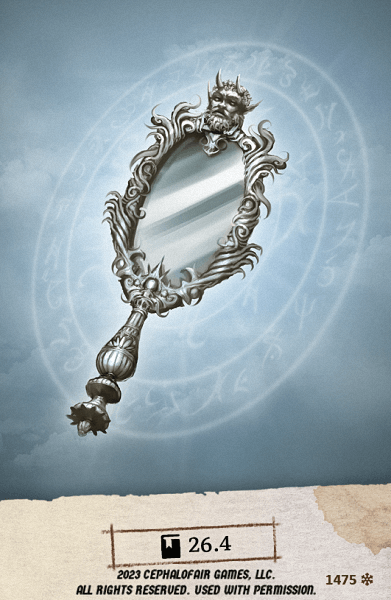
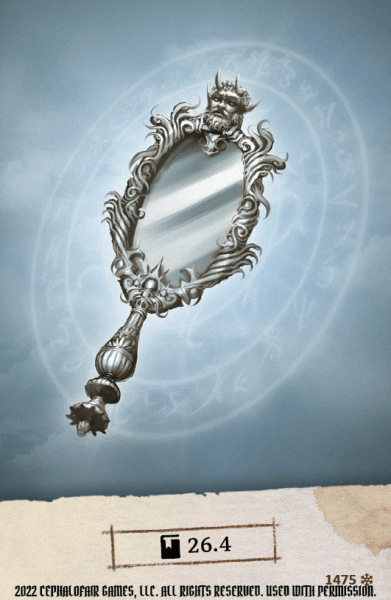
Implement New FH RS Assets with Copyright, Standardized Sizes & Asset Numbers

diff --git a/data/random-scenarios.js b/data/random-scenarios.js
@@ -224,134 +224,198 @@
     "assetno": "490"
   },
   {
-    "name": "random scenario back",
+    "name": "random scenario 26.4",
     "points": 28,
     "expansion": "frosthaven",
-    "image": "random-scenarios/frosthaven/fh-random-scenario-back.png",
-    "xws": "randomscenarioback"
+    "image": "random-scenarios/frosthaven/fh-random-scenario-26.4.png",
+    "xws": "randomscenario264",
+    "assetno": "1475"
   },
   {
-    "name": "random scenario 26.4",
+    "name": "1475",
     "points": 29,
     "expansion": "frosthaven",
     "image": "random-scenarios/frosthaven/fh-random-scenario-26.4.png",
-    "xws": "randomscenario264"
+    "xws": "randomscenario264",
+    "assetno": "1475"
   },
   {
     "name": "random scenario 81.1",
     "points": 30,
     "expansion": "frosthaven",
     "image": "random-scenarios/frosthaven/fh-random-scenario-81.1.png",
-    "xws": "randomscenario811"
+    "xws": "randomscenario811",
+    "assetno": "1477"
+  },
+  {
+    "name": "1477",
+    "points": 31,
+    "expansion": "frosthaven",
+    "image": "random-scenarios/frosthaven/fh-random-scenario-81.1.png",
+    "xws": "randomscenario811",
+    "assetno": "1477"
   },
   {
     "name": "random scenario 119.3",
-    "points": 31,
+    "points": 32,
     "expansion": "frosthaven",
     "image": "random-scenarios/frosthaven/fh-random-scenario-119.3.png",
-    "xws": "randomscenario1193"
+    "xws": "randomscenario1193",
+    "assetno": "1478"
+  },
+  {
+    "name": "1478",
+    "points": 33,
+    "expansion": "frosthaven",
+    "image": "random-scenarios/frosthaven/fh-random-scenario-119.3.png",
+    "xws": "randomscenario1193",
+    "assetno": "1478"
   },
   {
     "name": "random scenario 142.4",
-    "points": 32,
+    "points": 34,
     "expansion": "frosthaven",
     "image": "random-scenarios/frosthaven/fh-random-scenario-142.4.png",
-    "xws": "randomscenario1424"
+    "xws": "randomscenario1424",
+    "assetno": "1481"
+  },
+  {
+    "name": "1481",
+    "points": 35,
+    "expansion": "frosthaven",
+    "image": "random-scenarios/frosthaven/fh-random-scenario-142.4.png",
+    "xws": "randomscenario1424",
+    "assetno": "1481"
   },
   {
     "name": "random scenario 146.4",
-    "points": 33,
+    "points": 36,
     "expansion": "frosthaven",
     "image": "random-scenarios/frosthaven/fh-random-scenario-146.4.png",
-    "xws": "randomscenario1464"
+    "xws": "randomscenario1464",
+    "assetno": "1479"
+  },
+  {
+    "name": "1479",
+    "points": 37,
+    "expansion": "frosthaven",
+    "image": "random-scenarios/frosthaven/fh-random-scenario-146.4.png",
+    "xws": "randomscenario1464",
+    "assetno": "1479"
   },
   {
     "name": "random scenario 171.2",
-    "points": 34,
+    "points": 38,
     "expansion": "frosthaven",
     "image": "random-scenarios/frosthaven/fh-random-scenario-171.2.png",
-    "xws": "randomscenario1712"
+    "xws": "randomscenario1712",
+    "assetno": "1476"
+  },
+  {
+    "name": "1476",
+    "points": 39,
+    "expansion": "frosthaven",
+    "image": "random-scenarios/frosthaven/fh-random-scenario-171.2.png",
+    "xws": "randomscenario1712",
+    "assetno": "1476"
   },
   {
     "name": "random scenario 186.5",
-    "points": 35,
+    "points": 40,
     "expansion": "frosthaven",
     "image": "random-scenarios/frosthaven/fh-random-scenario-186.5.png",
-    "xws": "randomscenario1865"
+    "xws": "randomscenario1865",
+    "assetno": "1480"
+  },
+  {
+    "name": "1480",
+    "points": 41,
+    "expansion": "frosthaven",
+    "image": "random-scenarios/frosthaven/fh-random-scenario-186.5.png",
+    "xws": "randomscenario1865",
+    "assetno": "1480"
   },
   {
     "name": "random scenario back",
-    "points": 36,
+    "points": 42,
+    "expansion": "frosthaven",
+    "image": "random-scenarios/frosthaven/fh-random-scenario-back.png",
+    "xws": "randomscenarioback",
+    "assetno": "####"
+  },
+  {
+    "name": "random scenario back",
+    "points": 43,
     "expansion": "trail of ashes",
     "image": "random-scenarios/trail-of-ashes/toa-random-scenario-back.png",
     "xws": "toarandomscenarioback"
   },
   {
     "name": "random scenario 72",
-    "points": 37,
+    "points": 44,
     "expansion": "trail of ashes",
     "image": "random-scenarios/trail-of-ashes/toa-inox-salvation.png",
     "xws": "inoxsalvation"
   },
   {
     "name": "inox salvation",
-    "points": 38,
+    "points": 45,
     "expansion": "trail of ashes",
     "image": "random-scenarios/trail-of-ashes/toa-inox-salvation.png",
     "xws": "inoxsalvation"
   },
   {
     "name": "random scenario 73",
-    "points": 39,
+    "points": 46,
     "expansion": "trail of ashes",
     "image": "random-scenarios/trail-of-ashes/toa-lootpalooza.png",
     "xws": "lootpalooza"
   },
   {
     "name": "lootpalooza",
-    "points": 40,
+    "points": 47,
     "expansion": "trail of ashes",
     "image": "random-scenarios/trail-of-ashes/toa-lootpalooza.png",
     "xws": "lootpalooza"
   },
   {
     "name": "random scenario 74",
-    "points": 41,
+    "points": 48,
     "expansion": "trail of ashes",
     "image": "random-scenarios/trail-of-ashes/toa-song-of-the-harrower.png",
     "xws": "songoftheharrower"
   },
   {
     "name": "song of the harrower",
-    "points": 42,
+    "points": 49,
     "expansion": "trail of ashes",
     "image": "random-scenarios/trail-of-ashes/toa-song-of-the-harrower.png",
     "xws": "songoftheharrower"
   },
   {
     "name": "random scenario 75",
-    "points": 43,
+    "points": 50,
     "expansion": "trail of ashes",
     "image": "random-scenarios/trail-of-ashes/toa-sunken-temple.png",
     "xws": "sunkentemple"
   },
   {
     "name": "sunken temple",
-    "points": 44,
+    "points": 51,
     "expansion": "trail of ashes",
     "image": "random-scenarios/trail-of-ashes/toa-sunken-temple.png",
     "xws": "sunkentemple"
   },
   {
     "name": "random scenario 76",
-    "points": 45,
+    "points": 52,
     "expansion": "trail of ashes",
     "image": "random-scenarios/trail-of-ashes/toa-untold-woe.png",
     "xws": "untoldwoe"
   },
   {
     "name": "untold woe",
-    "points": 46,
+    "points": 53,
     "expansion": "trail of ashes",
     "image": "random-scenarios/trail-of-ashes/toa-untold-woe.png",
     "xws": "untoldwoe"

diff --git a/index.html b/index.html
@@ -10312,11 +10312,14 @@
 					<h1><i class="fa fa-plus"></i> Random Scenarios </h1>
 					<div class="textzone">
 						<table class="table-padded">
-							<tr><td>Random Scenario Back</td></tr>
-							<tr><td>&nbsp</td></tr>
-							<tr><td>Random Scenario 26.4 </td><td>Random Scenario 142.4</td><td>Random Scenario 186.5</td></tr>
-							<tr><td>Random Scenario 81.1 </td><td>Random Scenario 146.4</td></tr>
-							<tr><td>Random Scenario 119.3</td><td>Random Scenario 171.2</td></tr>
+							<tr><td class="td-bu">Asset Back</td><td class="td-bu">Asset Name</td><td class="td-bu">Asset #</td></tr>
+							<tr><td>Random Scenario Back</td><td>Random Scenario 26.4 </td><td>1475</td></tr>
+							<tr><td>&nbsp               </td><td>Random Scenario 81.1 </td><td>1477</td></tr>
+							<tr><td>&nbsp               </td><td>Random Scenario 119.3</td><td>1478</td></tr>
+                            <tr><td>&nbsp               </td><td>Random Scenario 142.4</td><td>1481</td></tr>
+                            <tr><td>&nbsp               </td><td>Random Scenario 146.4</td><td>1479</td></tr>
+                            <tr><td>&nbsp               </td><td>Random Scenario 171.2</td><td>1476</td></tr>
+                            <tr><td>&nbsp               </td><td>Random Scenario 186.5</td><td>1480</td></tr>
 						</table>
 					</div>
 
@@ -13944,11 +13947,14 @@
 					<h1><i class="fa fa-plus"></i> Random Scenarios </h1>
 					<div class="textzone">
 						<table class="table-padded">
-							<tr><td>Random Scenario Back</td></tr>
-							<tr><td>&nbsp</td></tr>
-							<tr><td>Random Scenario 26.4 </td><td>Random Scenario 142.4</td><td>Random Scenario 186.5</td></tr>
-							<tr><td>Random Scenario 81.1 </td><td>Random Scenario 146.4</td></tr>
-							<tr><td>Random Scenario 119.3</td><td>Random Scenario 171.2</td></tr>
+							<tr><td class="td-bu">Asset Back</td><td class="td-bu">Asset Name</td><td class="td-bu">Asset #</td></tr>
+							<tr><td>Random Scenario Back</td><td>Random Scenario 26.4 </td><td>1475</td></tr>
+							<tr><td>&nbsp               </td><td>Random Scenario 81.1 </td><td>1477</td></tr>
+							<tr><td>&nbsp               </td><td>Random Scenario 119.3</td><td>1478</td></tr>
+                            <tr><td>&nbsp               </td><td>Random Scenario 142.4</td><td>1481</td></tr>
+                            <tr><td>&nbsp               </td><td>Random Scenario 146.4</td><td>1479</td></tr>
+                            <tr><td>&nbsp               </td><td>Random Scenario 171.2</td><td>1476</td></tr>
+                            <tr><td>&nbsp               </td><td>Random Scenario 186.5</td><td>1480</td></tr>
 						</table>
 					</div>
 
